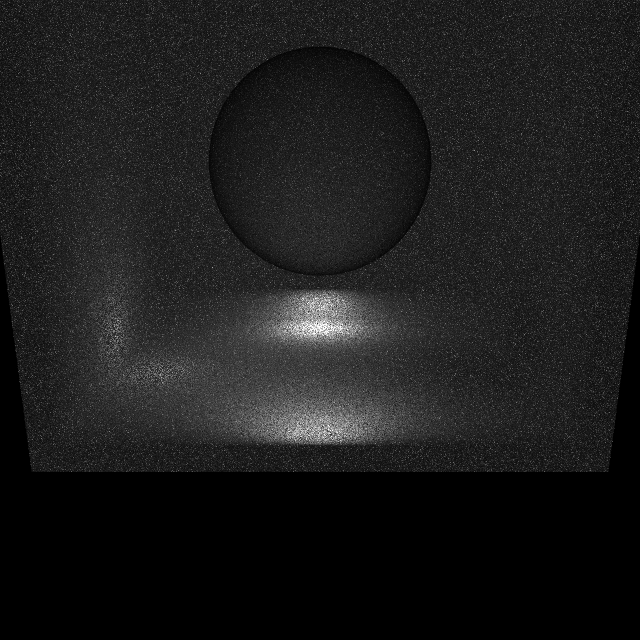
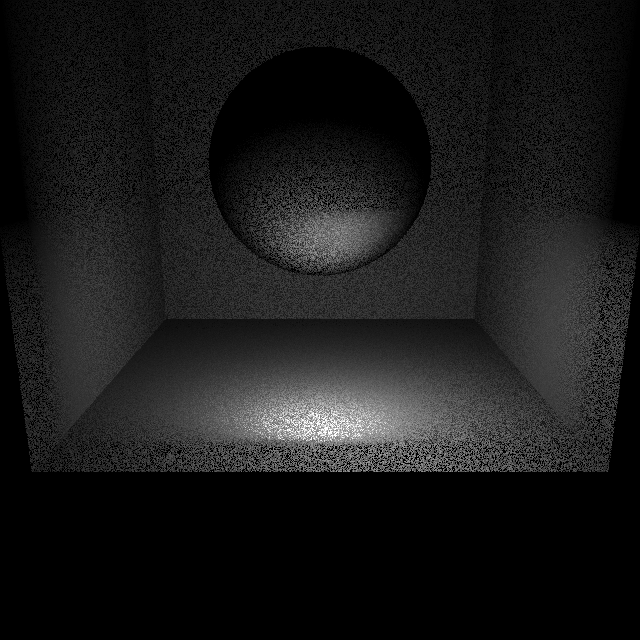
Recursive direct-light-only rendering, with all-pixels-scan and gamma correction

Changed region(s): [[0.0, 0.0, 1.0, 0.75], [0.7188, 0.4062, 0.75, 0.4375]]

diff --git a/src/main.cpp b/src/main.cpp
@@ -5,6 +5,8 @@
 #include "GeometryFloor.h"
 #include "GeometryOpenSpheres.h"
 
+#include <lighting/lighting.h>
+
 #include <sampling/sampling.h>
 #include "tracer_interfaces.h"
 #include <randf.h>
@@ -20,13 +22,13 @@ using namespace glm;
 using namespace std;
 
 // TODO light_hint is not very good solution!
-float ray_power(const Geometry& geometry, const Lighting& lighting, vec3 origin, vec3 direction, size_t depth=0, bool light_hint=false){
+float ray_power(const Geometry& geometry, const Lighting& lighting, vec3 origin, vec3 direction, size_t depth=0){
 
-    if(depth==4)
+    if(depth==2)
         return 0.0f;
 
     std::optional<surface_intersection> si = geometry.traceRay(origin, direction);
-    std::optional<light_intersection> li   = light_hint ? Lighting::last_sample : lighting.traceRayToLight(origin, direction);
+    std::optional<light_intersection> li   = lighting.traceRayToLight(origin, direction);
 
     // 1 check light hit
     if(li.has_value() && depth>0){
@@ -40,36 +42,47 @@ float ray_power(const Geometry& geometry, const Lighting& lighting, vec3 origin,
     if(!si.has_value())
         return 0.0f;
 
+    assert(si->sdf->full_theoretical_weight >= 0.0f);
+
     // 2 continue to geometry
     //DEBUG for geometry debugging
     //return si->position.y+1.0f;
 
     shared_ptr<const Ddf> light_ddf = lighting.distributionInPoint(si->position);
-    shared_ptr<const Ddf> chained_ddf = chain(light_ddf, si->sdf);
 
     // Mix equally SDF distribution and light*SDF distribution!
     // TODO Mix it with unite()!?
     vec3 new_direction;
-    if(rand()%2==0)
-        new_direction = light_ddf->trySample();
-    else
-        new_direction = si->sdf->trySample();
+    float res = 0.0f;
 
-    if(new_direction == vec3())
-        return 0.0f;            // possible dimming because of this
+    //bool cast_light = rand()%2==0;
 
-    assert(si->sdf->full_theoretical_weight >= 0.0f);
+    new_direction = light_ddf->trySample();
+    // possible dimming because of this
+    if(new_direction != vec3()){
+        // correct by light_ddf distribution!
+        float multiplier = 1.0f/light_ddf->value(new_direction)*si->sdf->value(new_direction);
+        res += multiplier*si->sdf->full_theoretical_weight * ray_power(geometry, lighting, si->position, new_direction, depth+1);
+    }
 
-    return si->sdf->full_theoretical_weight * ray_power(geometry, lighting, si->position, new_direction, depth+1, true);
+//    new_direction = si->sdf->trySample();
+//    if(new_direction != vec3()){
+//        res += si->sdf->full_theoretical_weight * ray_power(geometry, lighting, si->position, new_direction, depth+1);
+//    }
+
+    return isfinite(res)?res:0.0f;
 }
 
 void render(const Scene& scene, RenderPlane& r_plane, size_t n_samples){
     for(size_t sample=0; sample<n_samples; ++sample){
 
-        float x = randf();
-        float y = randf();
-//        for(float y = 0.5f/640; y < 1; y+=1.0f/640){
-//        for(float x = 0.5f/640; x < 1; x+=1.0f/640){
+//        float x = randf();
+//        float y = randf();
+        for(size_t iy = 0; iy < 640; iy++){
+        for(size_t ix = 0; ix < 640; ix++){
+
+        float x = (ix+randf())/640.0f;
+        float y = (iy+randf())/640.0f;
 
         vec3 origin, direction;
         tie(origin, direction) = scene.camera->sampleRay(x, y);
@@ -80,14 +93,13 @@ void render(const Scene& scene, RenderPlane& r_plane, size_t n_samples){
         // TODO investigate why it can be -1e-3
         assert(value > -1e-3);
         value = value >= 0.0f ? value : 0.0f;
+        assert(isfinite(value));
         r_plane.addRay(x, y, value);
 
-        if((sample+1) % 10000 == 0)
-            cout << (sample+1)/1000 << "k / " << n_samples/1000 << "k" << endl;
 
-//        }}// for x y
+        }}// for x y
 
-//        cout << sample << " / " << n_samples << endl;
+        cout << sample << " / " << n_samples << endl;
 
     }// for sample
 }
@@ -96,13 +108,13 @@ int main(){
 
     shared_ptr<CollectionLighting> lighting = make_shared<CollectionLighting>();
 
-    lighting->addPointLight(vec3{0.9f, 0.0f, -0.8f}, 0.1f, 1.0f);
+    //lighting->addPointLight(vec3{0.9f, 0.0f, -0.8f}, 0.1f, 1.0f);
     // TODO Why it has non-proportional power?
-    lighting->addSphereLight(vec3{-0.8f, 0.0f, -0.8f}, 0.1f, 1.0f);
+    //lighting->addSphereLight(vec3{-0.8f, 0.0f, -0.8f}, 0.1f, 1.0f);
     // radiates down
-    lighting->addAreaLight(vec3{-0.1f, +0.8f-0.1f, -0.8f}, vec3(0.0f, 0.0f, -1.0f), vec3{0.0f, 0.2f, 0.0f}, 1.0f);
+    lighting->addAreaLight(vec3{+0.1f, -0.8f-0.1f, -0.15f}, vec3(0.0f, 0.0f, -1.0f), vec3{0.0f, 0.2f, 0.0f}, 1.0f);
     // radiates forward
-    lighting->addAreaLight(vec3{-0.1f, -0.8f, -0.80-0.1f}, vec3(0.0f, 1.0f, 0.0f), vec3{0.0f, 0.0f, 0.2f}, 1.0f);
+    lighting->addAreaLight(vec3{-0.1f, -0.8f, -0.7f-0.1f}, vec3(0.0f, 1.0f, 0.0f), vec3{0.0f, 0.0f, 0.2f}, 1.0f);
 
     //lighting->addOuterLight(10);
 
@@ -115,12 +127,12 @@ int main(){
 
     GridRenderPlane r_plane(640, 640);
 
-    render(scene, r_plane, 50*r_plane.width*r_plane.height);
+    render(scene, r_plane, 2);
 
     cout << "Max value = " << r_plane.max_value << endl;
 
-    //r_plane.smooth(4);
-    //r_plane.computeSmoothedMax(4);
+    //r_plane.smooth(2);
+    r_plane.computeSmoothedMax(5);
 
     cout << "Smoothed max = " << r_plane.max_value << endl;
 
@@ -130,10 +142,11 @@ int main(){
     float gamma = 0.6f;
     for(size_t y = 0; y<r_plane.height; ++y){
         for(size_t x = 0; x<r_plane.width; ++x){
-            int value = pow(r_plane.pixels[y*r_plane.width+x]/r_plane.max_value, gamma)*255;
-            if(value>255)
-                value = 255;
-            fprintf(fp, "%d ", value);
+            float value = r_plane.pixels[y*r_plane.width+x]/r_plane.max_value;
+            if(value>1.0f)
+                value = 1.0f;
+            int ivalue = pow(value, gamma)*255;
+            fprintf(fp, "%d ", ivalue);
         }
         fprintf(fp, "\n");
     }// for y
